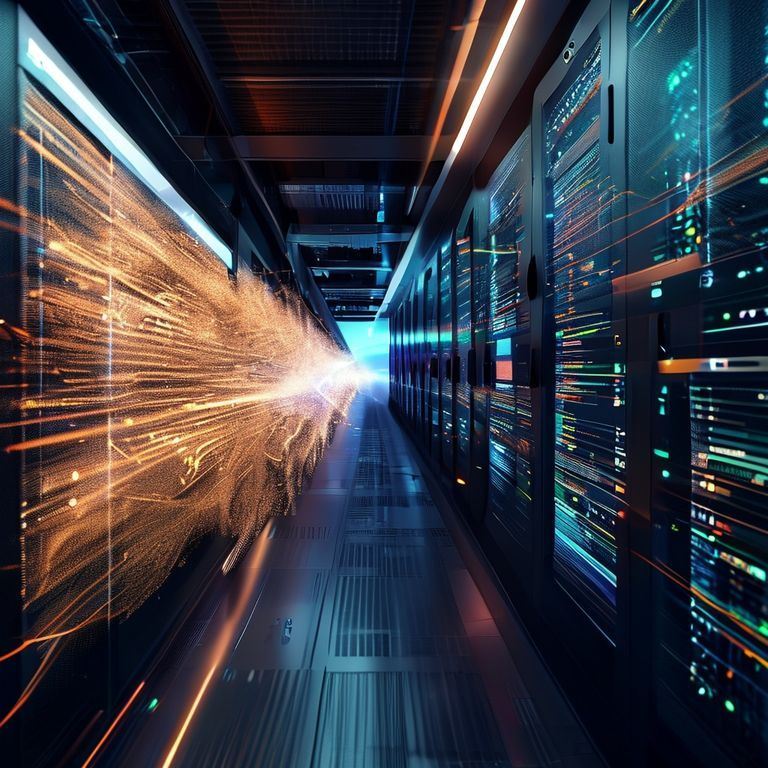
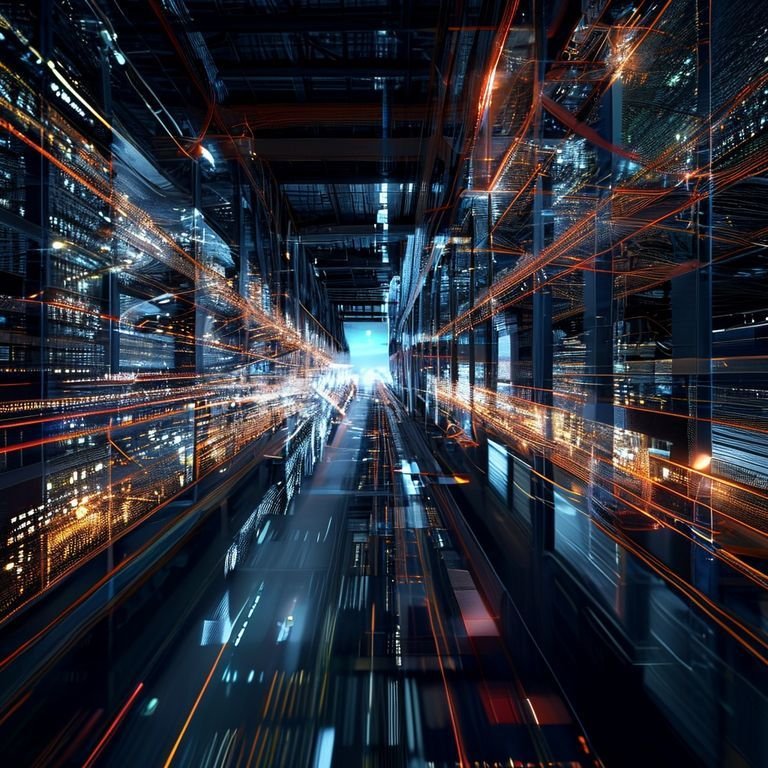
Add draft for 2026-01-10

diff --git a/drafts/post_2026-01-10.md b/drafts/post_2026-01-10.md
@@ -1,19 +1,33 @@
 ---
-topic: "The Fatal Latency of EDI 940/945 Transactions in Modern Real-Time WMS Integration"
-image_prompt: "Photorealistic image showing a high-speed data flow visualization moving from a dusty server screen (representing EDI batch processing) into a sleek, modern API dashboard interface, symbolizing rapid real-time logistics integration."
+topic: "Synchronous vs. Asynchronous API Design in High-Volume Warehouse Logistics"
+image_prompt: "Abstract visualization showing high-speed data packets flowing into a complex, illuminated digital warehouse structure, with distinct synchronous and asynchronous processing queues. Photorealistic, dark tones."
 ---
-𝗛𝗮𝘃𝗲 𝘆𝗼𝘂 𝘁𝗿𝘂𝗹𝘆 𝗰𝗮𝗹𝗰𝘂𝗹𝗮𝘁𝗲𝗱 𝘁𝗵𝗲 𝗰𝗼𝘀𝘁 𝗼𝗳 𝘁𝗵𝗲 𝗹𝗮𝘁𝗲𝗻𝗰𝘆 𝗶𝗻𝗵𝗲𝗿𝗲𝗻𝘁 𝗶𝗻 𝘂𝘀𝗶𝗻𝗴 𝘁𝗿𝗮𝗱𝗶𝘁𝗶𝗼𝗻𝗮𝗹 𝗘𝗗𝗜 𝟵𝟰𝟬𝘀 𝘁𝗼 𝗶𝗻𝘀𝘁𝗿𝘂𝗰𝘁 𝗮 𝗺𝗼𝗱𝗲𝗿𝗻 𝗪𝗠𝗦?
+Have you ever designed a mission-critical integration where the client expects a 𝟮𝟬𝟬 𝗢𝗞 status to mean the order is packed, manifested, and ready for shipment?
 
-As integration specialists, we revere the robustness and reliability of standards like X12. The 940 (Warehouse Shipping Order) and 945 (Shipping Advice) are the backbone of many B2B logistics flows, defining how an ERP hands off instruction to a 3PL or internal warehouse. However, their reliance on file-based, asynchronous batch processing introduces a silent, but deadly, flaw in high-velocity fulfillment environments: 𝘂𝗻𝗮𝗰𝗰𝗲𝗽𝘁𝗮𝗯𝗹𝗲 𝗱𝗲𝗹𝗮𝘆𝘀.
+This is perhaps the single largest philosophical hurdle when bridging modern API consumers (e-commerce platforms, customer service portals) with legacy logistics systems (WMS, ERP). Network latency is nearly zero, but the reality of processing speed within the application layer is anything but instant.
 
-A typical EDI process involves the creation of the 940 file, transmission (often via FTP/SFTP), polling, validation, queue injection into the WMS, and final processing. This workflow, designed decades ago for daily cycles, frequently turns a critical 5-minute decision window into a 30-to-45-minute lag during peak volume. This latency kills service level agreements (SLAs), complicates inventory allocation visibility, and makes real-time orchestration, like dynamic wave releasing or cross-docking, practically impossible.
+𝗧𝗵𝗲 𝗦𝘆𝗻𝗰𝗵𝗿𝗼𝗻𝗼𝘂𝘀 𝗧𝗿𝗮𝗽 𝗶𝗻 𝗟𝗼𝗴𝗶𝘀𝘁𝗶𝗰𝘀 𝗜𝗻𝘁𝗲𝗴𝗿𝗮𝘁𝗶𝗼𝗻
 
-The fundamental issue is atomicity. With EDI, the instruction is separate from the execution result. The 945 confirms the shipment hours later, requiring continuous reconciliation.
+Many developers default to synchronous integration: Send the order payload, wait for the WMS to check inventory, reserve stock, generate picking tasks, and commit the transaction—all before returning the final status code.
 
-The modern approach demands immediate, synchronous certainty. We must transition these critical instruction sets to targeted, well-defined logistics APIs. Instead of a batch file, we leverage a dedicated `𝗣𝗢𝗦𝗧 /𝗮𝗽𝗶/𝘃𝟭/𝘄𝗺𝘀/𝘀𝗵𝗶𝗽𝗺𝗲𝗻𝘁-𝗶𝗻𝘀𝘁𝗿𝘂𝗰𝘁𝗶𝗼𝗻` endpoint. This shift provides immediate feedback through HTTP status codes (a 201 Created status confirms allocation instantly), allows for rapid rollback if business rules fail validation, and replaces the generic 997 Functional Acknowledgment with specific, actionable error payloads.
+Why does this architecture fail at scale? Because the WMS is inherently designed for high-volume *batch* throughput, not real-time, instantaneous, end-to-end transactional commits. A simple order integration might take 200ms, but when thousands of orders hit during peak shopping hours, those milliseconds stack up. The upstream system times out, retries begin, and you quickly induce a system-wide lock-up, often referred to as 𝘁𝗵𝘂𝗻𝗱𝗲𝗿𝗶𝗻𝗴 𝗵𝗲𝗿𝗱 𝘀𝘆𝗻𝗱𝗿𝗼𝗺𝗲 against the database.
 
-If your current system still relies on polling FTP folders for 945 files to confirm shipments, how are you handling complex scenarios like partial allocations, split shipments, or carrier manifest failures in real-time? The complexity management overhead quickly eclipses the perceived simplicity of keeping the EDI standard.
+The modern approach demands an acknowledgment mechanism that separates 𝗜𝗻𝗴𝗲𝘀𝘁𝗶𝗼𝗻 from 𝗘𝘅𝗲𝗰𝘂𝘁𝗶𝗼𝗻.
 
-My strategic advice is clear: stop using EDI for time-sensitive, transactional data flows. Maintain it for high-volume, low-criticality data (like static price lists or blanket inventory feeds), but prioritize migrating the 940/945/943/944 transaction sets to robust RESTful APIs. When designing these endpoints, focus relentlessly on idempotency, transactional certainty, and highly granular, machine-readable error responses. Real-time logistics requires real-time integration, and that means moving beyond the batch file paradigm.
+A logistics API should almost always utilize an asynchronous pattern for core operations like Order Ingestion, Inventory Moves, and Manifest Generation. This means immediately returning a 𝟮𝟬𝟮 𝗔𝗰𝗰𝗲𝗽𝘁𝗲𝗱 response, acknowledging receipt, validation, and successful queueing. This non-blocking handshake maximizes throughput and prevents timeouts upstream.
 
-#IntegrationDevelopment #LogisticsTech #EDIvsAPI #WMS #SupplyChainAutomation
+𝗧𝗵𝗲 𝗖𝗿𝘂𝗰𝗶𝗮𝗹 𝗥𝗼𝗹𝗲 𝗼𝗳 𝗚𝘂𝗮𝗿𝗮𝗻𝘁𝗲𝗲𝗱 𝗦𝘁𝗮𝘁𝘂𝘀 𝗨𝗽𝗱𝗮𝘁𝗲𝘀
+
+The real technical challenge then shifts from rapid ingestion to guaranteed, reliable status updates.
+
+What if your upstream systems are designed purely for synchronous requests? Are you providing them with a robust, reliable mechanism (like webhooks, dedicated event streams, or secure polling endpoints) to retrieve the guaranteed final state, including picking completion, shipment tracking IDs, and any unexpected exceptions?
+
+𝗦𝘁𝗿𝗮𝘁𝗲𝗴𝗶𝗰 𝗔𝗱𝘃𝗶𝗰𝗲 𝗳𝗼𝗿 𝗛𝗶𝗴𝗵-𝗧𝗵𝗿𝗼𝘂𝗴𝗵𝗽𝘂𝘁 𝗜𝗻𝘁𝗲𝗴𝗿𝗮𝘁𝗶𝗼𝗻𝘀
+
+1. 𝗗𝗲𝗰𝗼𝘂𝗽𝗹𝗲 𝗮𝗻𝗱 𝗤𝘂𝗲𝘂𝗲: Never let external systems wait on your ERP/WMS database commit. Implement a dedicated message queue (Kafka, RabbitMQ, SQS) immediately after initial validation. The 202 status confirms queueing, not commitment.
+2. 𝗦𝘁𝗮𝗻𝗱𝗮𝗿𝗱𝗶𝘇𝗲 𝗣𝗼𝗹𝗹𝗶𝗻𝗴: For clients unable to consume webhooks, provide a dedicated, lightweight `/status` endpoint that uses a transaction ID supplied during the initial 202 exchange. This endpoint must be highly performant and database-read optimized.
+3. 𝗧𝗿𝗮𝗰𝗲 𝗘𝘃𝗲𝗿𝘆𝘁𝗵𝗶𝗻𝗴: Implement correlation IDs (or tracing IDs) that persist across the entire asynchronous flow—from initial API call, through the queue, into the WMS, and back out via the status mechanism. This is non-negotiable for rapid error diagnosis.
+
+Optimizing logistics integration is about respecting the underlying processing cadence of the warehouse. Stop designing your APIs as if inventory checks are instantaneous database reads. Design them to manage the necessary lag between request and fulfillment.
+
+#IntegrationDevelopment #LogisticsTech #SupplyChainAPI #WMS #AsynchronousDesign
